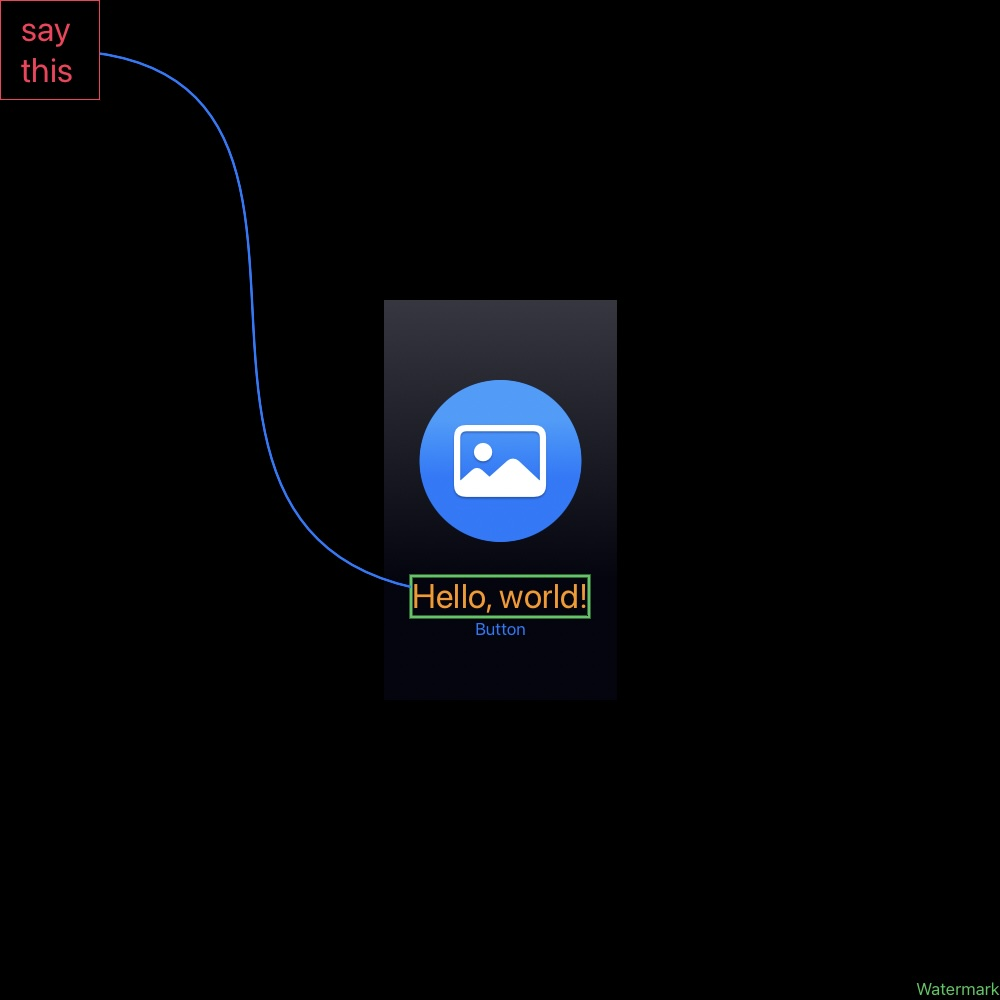
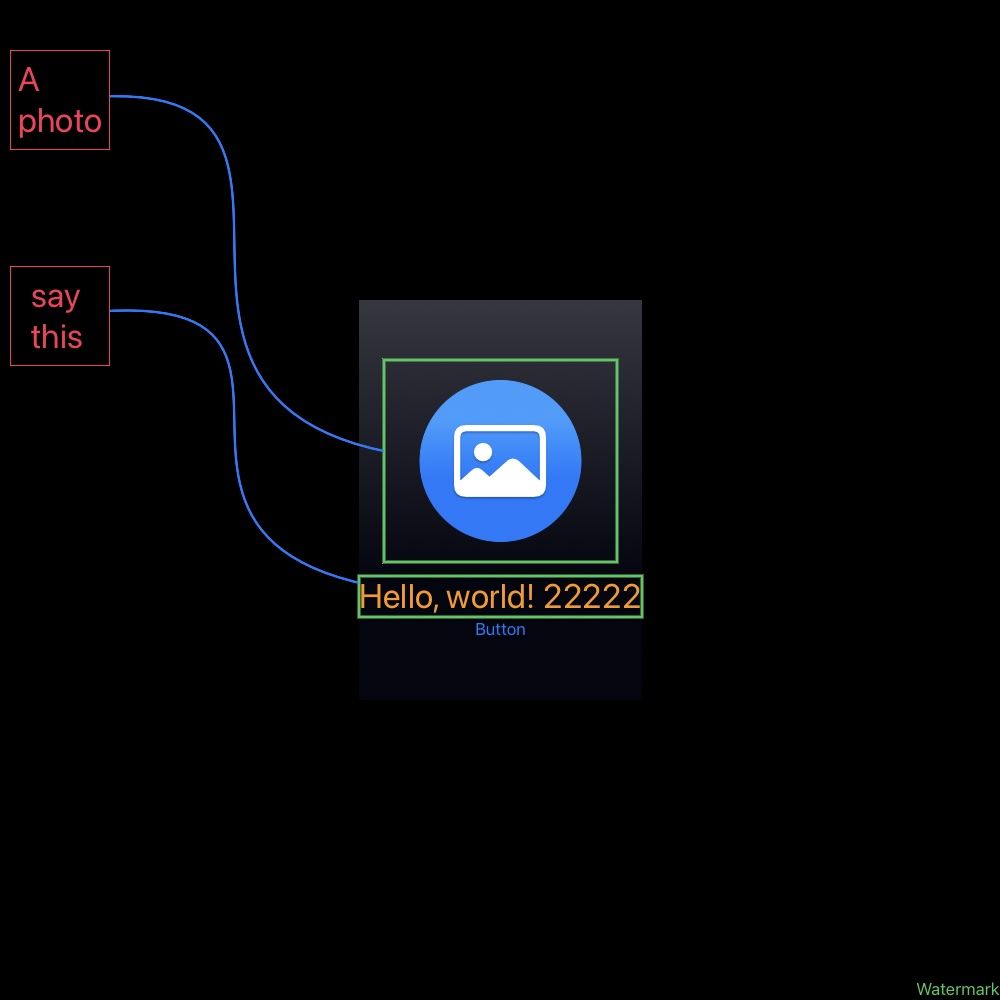
chore: Add another example cell

Changed region(s): [[0.031, 0.124, 0.651, 0.62], [0.0, 0.0, 0.217, 0.155]]

diff --git a/Sources/InspectorA11yCore/Generator.swift b/Sources/InspectorA11yCore/Generator.swift
@@ -51,14 +51,15 @@ extension Generator: View {
         lhs.key > rhs.key
       }), id: \.key) { key, itemData in
 
-        let l = itemData.rect
+        let targetRect = itemData.rect
+        let sourceRect = CGRect(x: 10, y: targetRect.origin.y - 10, width: 100, height: 100)
 
         Path { path in
-          path.move(to: CGPoint(x: 50, y: 50))
+          path.move(to: CGPoint(x: sourceRect.midX, y: sourceRect.midY))
           //path.addLine(to: CGPoint(x: (500-(image.size.width/2))+l.midX, y: (500-(image.size.height/2))+l.midY))
-          let to = CGPoint(x: (500-(imageSize.width/2))+l.midX, y: (500-(imageSize.height/2))+l.midY)
-          let ctrl1 = CGPoint(x: (500-(imageSize.width/2))+l.midX / 2, y: 50)
-          let ctrl2 = CGPoint(x: 50, y: (500-(imageSize.height/2))+l.midY)
+          let to = CGPoint(x: (500-(imageSize.width/2))+targetRect.midX, y: (500-(imageSize.height/2))+targetRect.midY)
+          let ctrl1 = CGPoint(x: (500-(imageSize.width/2))+targetRect.midX / 2, y: sourceRect.origin.y)
+          let ctrl2 = CGPoint(x: sourceRect.origin.x, y: (500-(imageSize.height/2))+targetRect.midY)
           path.addCurve(to: to, control1: ctrl1, control2: ctrl2)
         }
         .stroke(.blue, lineWidth: 2.5)
@@ -67,23 +68,23 @@ extension Generator: View {
 
             // text box
             Path { path in
-              path.addRect(CGRect(x: 0, y: 0, width: 100, height: 100))
+              path.addRect(sourceRect)
             },
 
             // item on screenshot
             Path { path in
-              path.addRect(CGRect(origin: CGPoint(x: (500-(imageSize.width/2)) + l.minX, y: (500-(imageSize.height/2)) + l.minY), size: CGSize(width: l.size.width, height: l.size.height)))
+              path.addRect(CGRect(origin: CGPoint(x: (500-(imageSize.width/2)) + targetRect.minX, y: (500-(imageSize.height/2)) + targetRect.minY), size: CGSize(width: targetRect.size.width, height: targetRect.size.height)))
             }
           )
           .fill(style: FillStyle(eoFill: true))
         }
 
         Text(itemData.message)
-          .frame(width: 100, height: 100)
+          .frame(width: sourceRect.width, height: sourceRect.height)
           .border(Color.pink)
           .font(.largeTitle)
           .foregroundStyle(Color.pink)
-        //.offset(x: 50, y: 500)
+          .offset(x: sourceRect.minX, y: sourceRect.minY)
 
 
       }

diff --git a/Sources/InspectorA11yCore/TestView.swift b/Sources/InspectorA11yCore/TestView.swift
@@ -20,7 +20,8 @@ extension TestView: View {
           .backgroundStyle(.blue.gradient)
           .foregroundStyle(.white.shadow(.drop(radius: 1, y: 1.5)))
           .padding(60)
-        Text("Hello, world!")
+          .instruction(id: "2", "A photo")
+        Text("Hello, world! 22222")
           .foregroundStyle(Color.orange)
           .font(.largeTitle)
           .instruction(id: "1", "say this")
